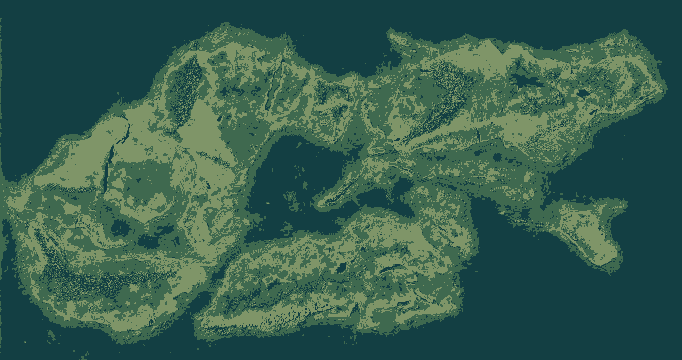
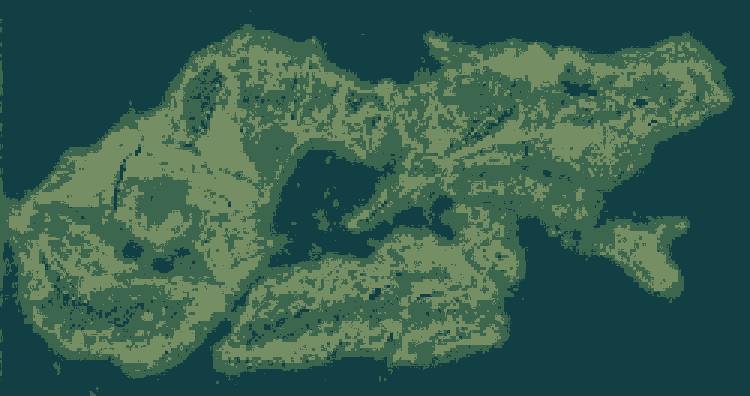
avant soutenance

Changed region(s): [[0.0, 0.0611, 0.9853, 0.9472], [0.4311, 0.4583, 0.4619, 0.4889], [0.1232, 0.3361, 0.154, 0.3667]]

diff --git a/src/CopieImage.java b/src/CopieImage.java
@@ -6,7 +6,6 @@ import java.awt.*;
 import java.awt.image.BufferedImage;
 import java.io.File;
 import java.io.IOException;
-import java.sql.Time;
 import java.util.ArrayList;
 import java.util.Arrays;
 import java.util.HashMap;
@@ -14,13 +13,11 @@ import java.util.Map;
 
 public class CopieImage {
     private BufferedImage image;
-    private String nameImage;
 
     public void saveImage(String imagePath) {
         try {
             // Load the image
             image = ImageIO.read(new File(imagePath));
-            nameImage = imagePath.substring(imagePath.lastIndexOf("/") + 1, imagePath.lastIndexOf("."));
         } catch (IOException e) {
             e.printStackTrace();
         }
@@ -30,23 +27,27 @@ public class CopieImage {
         int width = image.getWidth();
         int height = image.getHeight();
         int taille = flou.getTaille();
-
-        while (width / taille > 750 || height / taille > 750) {
-            taille *= 5; // on augmente le flou
-        }
-
         int demi = taille / 2;
 
-        BufferedImage newImage = new BufferedImage(width/taille, height/taille, BufferedImage.TYPE_3BYTE_BGR);
+        BufferedImage newImage = new BufferedImage(width, height, BufferedImage.TYPE_3BYTE_BGR);
 
         for (int i = demi; i < width - demi; i += taille) {
             for (int j = demi; j < height - demi; j += taille) {
                 int[] rgbZone = flou.getRGB(image, i, j);
-                int r = rgbZone[0];
-                int g = rgbZone[1];
-                int b = rgbZone[2];
-                int rgb = (r << 16) | (g << 8) | b;
-                newImage.setRGB(i/taille, j/taille, rgb);
+                for (int dx = -demi; dx <= demi; dx++) {
+                    for (int dy = -demi; dy <= demi; dy++) {
+                        int x = i + dx;
+                        int y = j + dy;
+
+                        if (x >= 0 && y >= 0 && x < width && y < height) {
+                            int r = rgbZone[0];
+                            int g = rgbZone[1];
+                            int b = rgbZone[2];
+                            int rgb = (r << 16) | (g << 8) | b;
+                            newImage.setRGB(x, y, rgb);
+                        }
+                    }
+                }
             }
         }
 
@@ -313,6 +314,27 @@ public class CopieImage {
         return clusterToBiome;
     }
 
+    public void resizeImage() {
+        int width = image.getWidth();
+        int height = image.getHeight();
+
+        if (width <= 750 && height <= 750) return; // pas besoin de redimensionner
+
+        double ratio = Math.min(750.0 / width, 750.0 / height);
+        int newWidth = (int) (width * ratio);
+        int newHeight = (int) (height * ratio);
+
+        Image tmp = image.getScaledInstance(newWidth, newHeight, Image.SCALE_SMOOTH);
+        BufferedImage resized = new BufferedImage(newWidth, newHeight, BufferedImage.TYPE_3BYTE_BGR);
+
+        Graphics2D g2d = resized.createGraphics();
+        g2d.drawImage(tmp, 0, 0, null);
+        g2d.dispose();
+
+        this.image = resized;
+    }
+
+
 
 
     public static void main(String[] args) {
@@ -320,7 +342,7 @@ public class CopieImage {
 
         CopieImage copieImage = new CopieImage();
 
-        String nomImage = "Planete 3";
+        String nomImage = "Planete 4";
 
         String inputPath = "cartes/"+nomImage+".jpg";
         String flouPath = "cartes2/"+nomImage+"_flou.png";
@@ -328,6 +350,9 @@ public class CopieImage {
 
         // Load and save the image
         copieImage.saveImage(inputPath);
+
+        // Reduire l'image si nécessaire
+        copieImage.resizeImage();
 
         FlouGauss flou = new FlouGauss(3);
 
@@ -358,7 +383,7 @@ public class CopieImage {
 
         ArrayList<ArrayList<Integer>> list_data = copieImage.getData();
 
-        KMeans kmeans = new KMeans(10);
+        KMeans kmeans = new KMeans(6, 0);
 
         System.out.println("Début du calcul des clusters...");
         long startTime = System.currentTimeMillis();
@@ -387,6 +412,8 @@ public class CopieImage {
         Map<Integer,String> etiquettes = copieImage.associerClustersBiomes(list_pixel_cluster,biomes);
         System.out.println(etiquettes);
 
+        startTime = System.currentTimeMillis();
+
         for (int biomeId : etiquettes.keySet()) {
             String biomeName = etiquettes.get(biomeId);
             System.out.println("Biome " + etiquettes.get(biomeId) + " : " + allNumCluster.get(biomeId));
@@ -396,20 +423,24 @@ public class CopieImage {
             copieImage.afficherBiome(outputBiomePath,list_pixel_cluster, biomeId);
 
             // On crée un objet DBSCANPosition pour le clustering
-            DBSCANPosition dbscanPos = new DBSCANPosition(2, 1);
+            DBScan dbscanPos = new DBScan(2, 1);
 
             // On récupère les positions des pixels pour le biome actuel
             ArrayList<ArrayList<Integer>> positions = copieImage.getPositionsForBiome(list_pixel_cluster, biomeId);
 
             // On affiche le nombre de positions
-            System.out.println("\nDébut du calcul des clusters... (pour un biome)");
+            System.out.println("\nDébut du calcul des clusters... ("+biomeName+")");
             ArrayList<Integer> ecoClusters = dbscanPos.calculate_clusters(positions);
             System.out.println("Affichage des écosystèmes");
 
             // Affichage des écosystèmes
             copieImage.afficherEcosystemes("cartes2/" + nomImage+"_"+biomeName+"_clusters" + ".png", positions, ecoClusters);
-
         }
+
+        endTime = System.currentTimeMillis();
+
+        System.out.println("Temps d'exécution : " + (endTime - startTime) / 1000 + "s");
+
 
     }
 

diff --git a/src/clustering/DBScan.java b/src/clustering/DBScan.java
@@ -1,25 +1,39 @@
 package clustering;
 
 import java.awt.*;
-import java.util.ArrayList;
-import java.util.Collections;
+import java.util.*;
 
 /**
  * Classe DBSCAN qui fait le clustering sur la POSITION (x, y) des pixels.
  */
-public class DBSCANPosition implements AlgoClustering {
+public class DBScan implements AlgoClustering {
 
     private int eps;     // Distance maximale (en pixels) pour être voisin
     private int minPts;  // Nombre minimum de voisins pour être un core point
+    private Map<String, ArrayList<Integer>> grid;
+    private int cellSize;
 
-    public DBSCANPosition(int e, int minP) {
+    public DBScan(int e, int minP) {
         this.eps = e;
         this.minPts = minP;
     }
 
+    private void buildGrid(ArrayList<ArrayList<Integer>> list_carac) {
+        grid = new HashMap<>();
+        cellSize = eps;
+
+        for (int i = 0; i < list_carac.size(); i++) {
+            int x = list_carac.get(i).get(0);
+            int y = list_carac.get(i).get(1);
+            String key = (x / cellSize) + ":" + (y / cellSize);
+
+            grid.computeIfAbsent(key, k -> new ArrayList<>()).add(i);
+        }
+    }
+
     @Override
     public ArrayList<Integer> calculate_clusters(ArrayList<ArrayList<Integer>> list_carac) {
-
+        buildGrid(list_carac);
         int C = 0;
         int nbPoints = list_carac.size();
         boolean[] obj_traite = new boolean[nbPoints];
@@ -48,33 +62,43 @@ public class DBSCANPosition implements AlgoClustering {
      * Calcule la liste des voisins proches spatialement (en fonction de x et y)
      */
     private ArrayList<Integer> regionQuery(int index_point, ArrayList<ArrayList<Integer>> list_carac) {
+        ArrayList<Integer> neighbors = new ArrayList<>();
 
-        ArrayList<Integer> V = new ArrayList<>();
         ArrayList<Integer> coord1 = list_carac.get(index_point);
-        int x1 = coord1.get(0);
-        int y1 = coord1.get(1);
+        int x = coord1.get(0);
+        int y = coord1.get(1);
 
-        for (int i = 0; i < list_carac.size(); i++) {
-            if (i != index_point) {
-                ArrayList<Integer> coord2 = list_carac.get(i);
-                int x2 = coord2.get(0);
-                int y2 = coord2.get(1);
+        int cellX = x / cellSize;
+        int cellY = y / cellSize;
 
-                double distance = Math.sqrt(Math.pow(x1 - x2, 2) + Math.pow(y1 - y2, 2));
-                if (distance <= eps) {
-                    V.add(i);
+        for (int dx = -1; dx <= 1; dx++) {
+            for (int dy = -1; dy <= 1; dy++) {
+                String key = (cellX + dx) + ":" + (cellY + dy);
+                ArrayList<Integer> cellPoints = grid.get(key);
+                if (cellPoints == null) continue;
+
+                for (int i : cellPoints) {
+                    if (i == index_point) continue;
+
+                    ArrayList<Integer> coord2 = list_carac.get(i);
+                    double dist = Math.hypot(x - coord2.get(0), y - coord2.get(1));
+                    if (dist <= eps) {
+                        neighbors.add(i);
+                    }
                 }
             }
         }
-
-        return V;
+        return neighbors;
     }
+
 
     /**
      * Regroupe les voisins dans le cluster si la condition est remplie
      */
     private void expandCluster(int index_point, ArrayList<Integer> ptsVoisin, boolean[] obj_traite,
                                int numCluster, ArrayList<Integer> list_num_cluster, ArrayList<ArrayList<Integer>> list_carac) {
+
+        Set<Integer> ptsVoisinSet = new HashSet<>(ptsVoisin);
 
         list_num_cluster.set(index_point, numCluster);
 
@@ -87,8 +111,9 @@ public class DBSCANPosition implements AlgoClustering {
 
                 if (voisins2.size() >= minPts) {
                     for (int v : voisins2) {
-                        if (!ptsVoisin.contains(v)) {
+                        if (!ptsVoisinSet.contains(v)) {
                             ptsVoisin.add(v);
+                            ptsVoisinSet.add(v);
                         }
                     }
                 }

diff --git a/src/normes/OutilCouleur.java b/src/normes/OutilCouleur.java
@@ -1,7 +1,7 @@
-import java.awt.*;
+package normes;
 
 public class OutilCouleur {
-    static int[] getTabColor(int rgb){
+    public static int[] getTabColor(int rgb){
         int[] tabColor = new int[3];
         tabColor[0] = (rgb >> 16) & 0xFF; // Red
         tabColor[1] = (rgb >> 8) & 0xFF;  // Green
